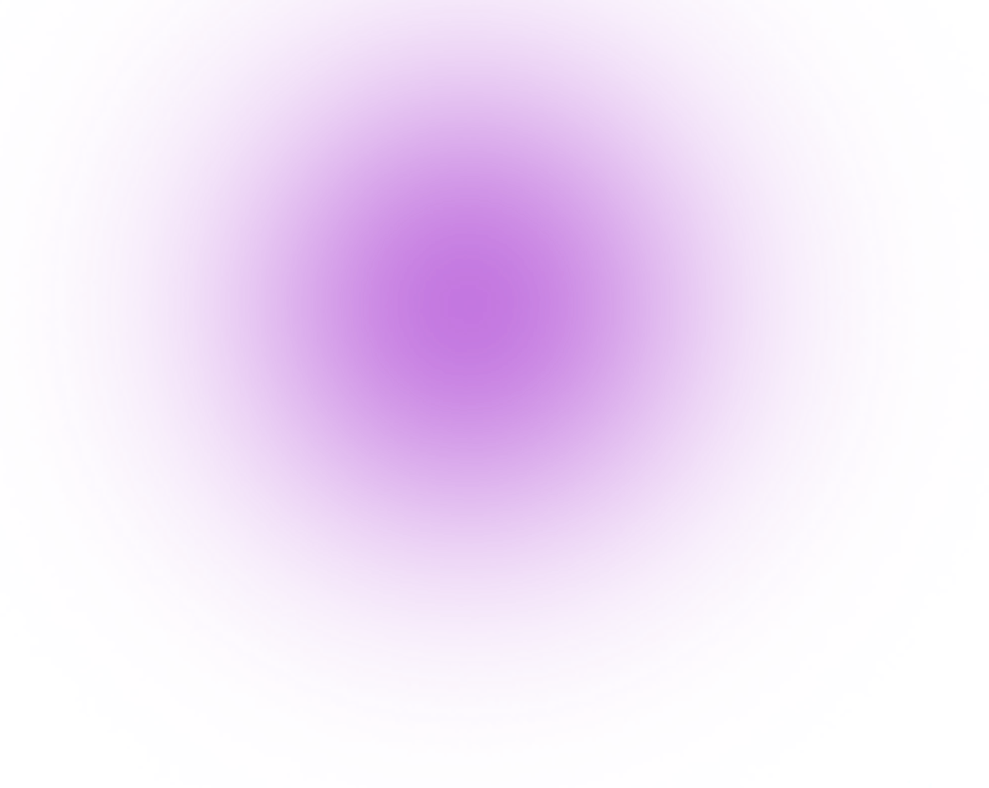
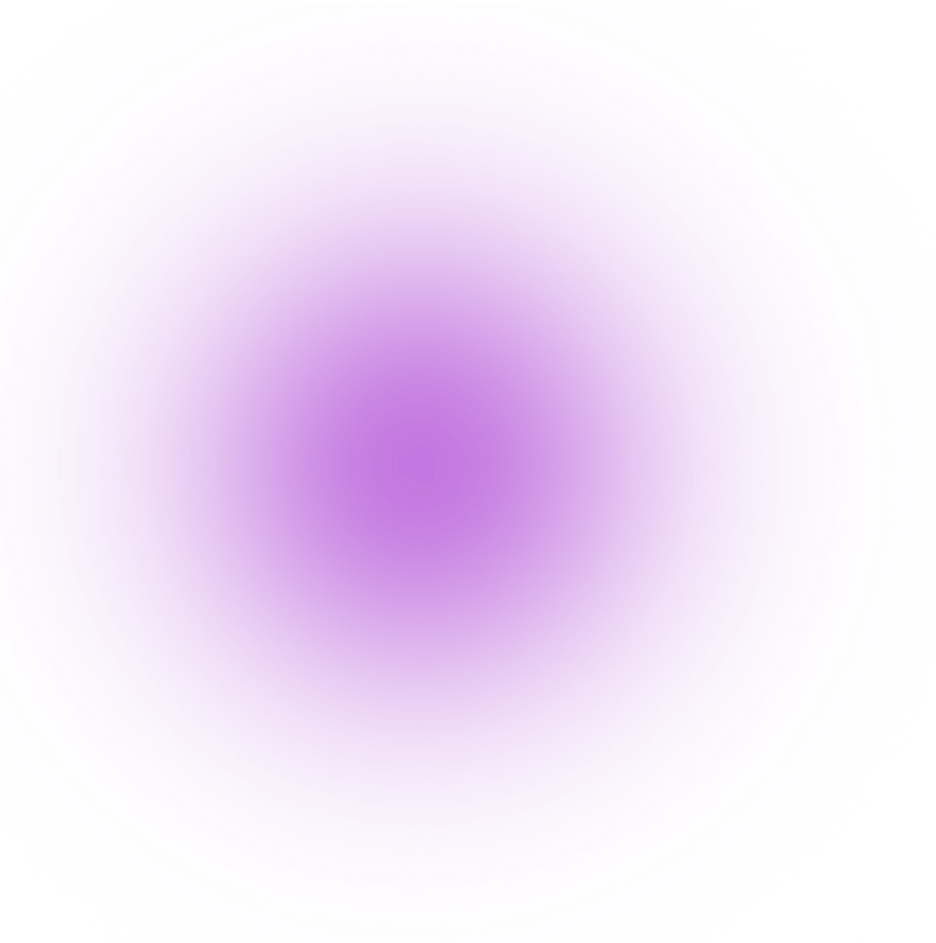
style: add glowing background

Changed region(s): [[0.2788, 0.0, 0.7126, 0.3959], [0.2169, 0.4569, 0.5577, 0.7005]]

diff --git a/src/components/Faq.jsx b/src/components/Faq.jsx
@@ -72,6 +72,45 @@ const Faq = () => {
                   you prefer.
                 </AccordionContent>
               </AccordionItem>
+              <AccordionItem
+                value="item-3"
+                data-aos="fade-up-right"
+                data-aos-duration="1500"
+              >
+                <AccordionTrigger>
+                  What happens if I don{"'"}t have an idea for a project?
+                </AccordionTrigger>
+                <AccordionContent>
+                  Yes. It&apos;s animated by default, but you can disable it if
+                  you prefer.
+                </AccordionContent>
+              </AccordionItem>
+              <AccordionItem
+                value="item-3"
+                data-aos="fade-up-right"
+                data-aos-duration="1500"
+              >
+                <AccordionTrigger>
+                  What happens if I don{"'"}t have an idea for a project?
+                </AccordionTrigger>
+                <AccordionContent>
+                  Yes. It&apos;s animated by default, but you can disable it if
+                  you prefer.
+                </AccordionContent>
+              </AccordionItem>
+              <AccordionItem
+                value="item-3"
+                data-aos="fade-up-right"
+                data-aos-duration="1500"
+              >
+                <AccordionTrigger>
+                  What happens if I don{"'"}t have an idea for a project?
+                </AccordionTrigger>
+                <AccordionContent>
+                  Yes. It&apos;s animated by default, but you can disable it if
+                  you prefer.
+                </AccordionContent>
+              </AccordionItem>
             </Accordion>
           </div>
         </div>

diff --git a/src/components/JudgingCriteria.jsx b/src/components/JudgingCriteria.jsx
@@ -2,6 +2,7 @@ import React from "react";
 import Image from "next/image";
 
 import sectionImage from "../../public/boy-girl-illustration.png";
+import flare from "../../public/purple-flare.png";
 import whiteStar from "../../public/star-white.png";
 import Subheader from "./Subheader";
 import { Button } from "./ui/button";
@@ -26,7 +27,25 @@ const JudgingCriteria = () => {
     },
   ];
   return (
-    <section className="text-center px-10 md:px-20 lg:px-28 border-b border-zinc-700 py-8">
+    <section className="relative text-center px-10 md:px-20 lg:px-28 border-b border-zinc-700 py-8">
+      <Image
+        src={flare}
+        alt="flare"
+        width={500}
+        height={500}
+        className="absolute -bottom-52 -z-20 -right-80 opacity-50"
+        data-aos="fade-left"
+        data-aos-duration="1000"
+      />
+      <Image
+        src={flare}
+        alt="flare"
+        width={500}
+        height={500}
+        className="absolute -bottom-2 -z-20 left-0 opacity-50"
+        data-aos="fade-right"
+        data-aos-duration="1000"
+      />
       <div className="flex flex-col md:flex-row md:items-center gap-8 md:16">
         <div
           className="md:flex-1 relative"

diff --git a/src/components/Rules.jsx b/src/components/Rules.jsx
@@ -3,11 +3,30 @@ import React from "react";
 
 import lady from "../../public/lady-sitting.png";
 import whiteStar from "../../public/star-white.png";
+import flare from "../../public/purple-flare.png";
 import Subheader from "./Subheader";
 
 const Rules = () => {
   return (
-    <section className="text-center px-10 md:px-20 lg:px-28 border-b border-zinc-700 py-8">
+    <section className="relative text-center px-10 md:px-20 lg:px-28 border-b border-zinc-700 py-8">
+      <Image
+        src={flare}
+        alt="flare"
+        width={800}
+        height={800}
+        className="absolute -top-52 -z-20 left-0 opacity-30"
+        data-aos="fade-right"
+        data-aos-duration="1000"
+      />
+      <Image
+        src={flare}
+        alt="flare"
+        width={500}
+        height={500}
+        className="absolute -bottom-52 -z-20 -right-80 opacity-50"
+        data-aos="fade-left"
+        data-aos-duration="1000"
+      />
       <div className="flex flex-col md:flex-row-reverse md:items-center gap-8 md:16">
         <div
           className="md:flex-1 relative"

diff --git a/src/components/Rewards.jsx b/src/components/Rewards.jsx
@@ -4,10 +4,29 @@ import Image from "next/image";
 
 import goldenCup from "../../public/golden-cup.png";
 import awards from "../../public/awards.png";
+import flare from "../../public/purple-flare.png";
 
 const Rewards = () => {
   return (
-    <section className="px-10 md:px-20 lg:px-28 py-12">
+    <section className="relative px-10 md:px-20 lg:px-28 py-12">
+      <Image
+        src={flare}
+        alt="flare"
+        width={500}
+        height={500}
+        className="absolute -bottom-44 -z-20 -right-80 opacity-50"
+        data-aos="fade-left"
+        data-aos-duration="1000"
+      />
+      <Image
+        src={flare}
+        alt="flare"
+        width={500}
+        height={500}
+        className="absolute -bottom-2 -z-20 left-0 opacity-50"
+        data-aos="fade-right"
+        data-aos-duration="1000"
+      />
       <div className="flex flex-col md:flex-row-reverse md:items-center text-center md:text-left gap-16">
         <div className="md:flex-1">
           <div>

diff --git a/src/components/Partners.jsx b/src/components/Partners.jsx
@@ -2,10 +2,29 @@ import React from "react";
 import Image from "next/image";
 
 import sponsors from "../../public/partners.png";
+import flare from "../../public/purple-flare.png";
 
 const Partners = () => {
   return (
-    <section className=" px-10 md:px-20 lg:px-28 py-20 border-b border-zinc-700">
+    <section className="relative px-10 md:px-20 lg:px-28 py-20 border-b border-zinc-700">
+      <Image
+        src={flare}
+        alt="flare"
+        width={800}
+        height={800}
+        className="absolute bottom-0 -z-50 -left-28 opacity-50"
+        data-aos="fade-up"
+        data-aos-duration="1000"
+      />
+      <Image
+        src={flare}
+        alt="flare"
+        width={600}
+        height={600}
+        className="absolute -bottom-44 -z-20 -right-80 opacity-50"
+        data-aos="fade-up"
+        data-aos-duration="1000"
+      />
       <div
         className="md:w-[480px] text-center md:h-auto mx-auto"
         data-aos="fade-up"

diff --git a/src/components/Hero.jsx b/src/components/Hero.jsx
@@ -12,14 +12,16 @@ import Star from "./Star";
 
 const Hero = () => {
   return (
-    <section className="relative h-[calc(100vh-85px)] md:pl-28 border-b border-zinc-700 overflow-y-hidden">
+    <section className="relative h-[calc(100vh-85px)] md:pl-28 border-b border-zinc-700 overflow-hidden">
       <div className="flex flex-col md:flex-row md:items-center">
         <Image
           src={flare}
           alt="flare"
-          width={600}
-          height={600}
-          className="absolute -top-8 -right-8"
+          width={500}
+          height={500}
+          className="absolute -top-8 -right-8 opacity-50"
+          data-aos="fade-right"
+          data-aos-duration="1000"
         />
         <div
           className="md:flex-1 text-center md:text-left"

diff --git a/src/components/Policy.jsx b/src/components/Policy.jsx
@@ -5,10 +5,20 @@ import { PlusIcon } from "lucide-react";
 import Image from "next/image";
 
 import privacyImage from "../../public/privacy-policy.png";
+import flare from "../../public/purple-flare.png";
 
 const Policy = () => {
   return (
-    <section className="px-10 md:px-20 lg:px-28 my-20 ">
+    <section className="relative px-10 md:px-20 lg:px-28 mt-20 overflow-hidden">
+      <Image
+        src={flare}
+        alt="flare"
+        width={600}
+        height={600}
+        className="absolute -bottom-52 -z-20 -left-72"
+        // data-aos="fade-left"
+        // data-aos-duration="1000"
+      />
       <div className="flex flex-col md:flex-row text-center md:text-left gap-16">
         {/* flex one  */}
         <div className="flex-1">

diff --git a/src/components/Navbar.jsx b/src/components/Navbar.jsx
@@ -30,7 +30,7 @@ const Navbar = () => {
         alt="flare"
         width={600}
         height={600}
-        className="absolute -top-4 left-8"
+        className="absolute -top-24 left-12 opacity-50"
       />
       <div className="flex items-center justify-between">
         <Link href="/" className=" font-clash text-xl md:text-2xl">
